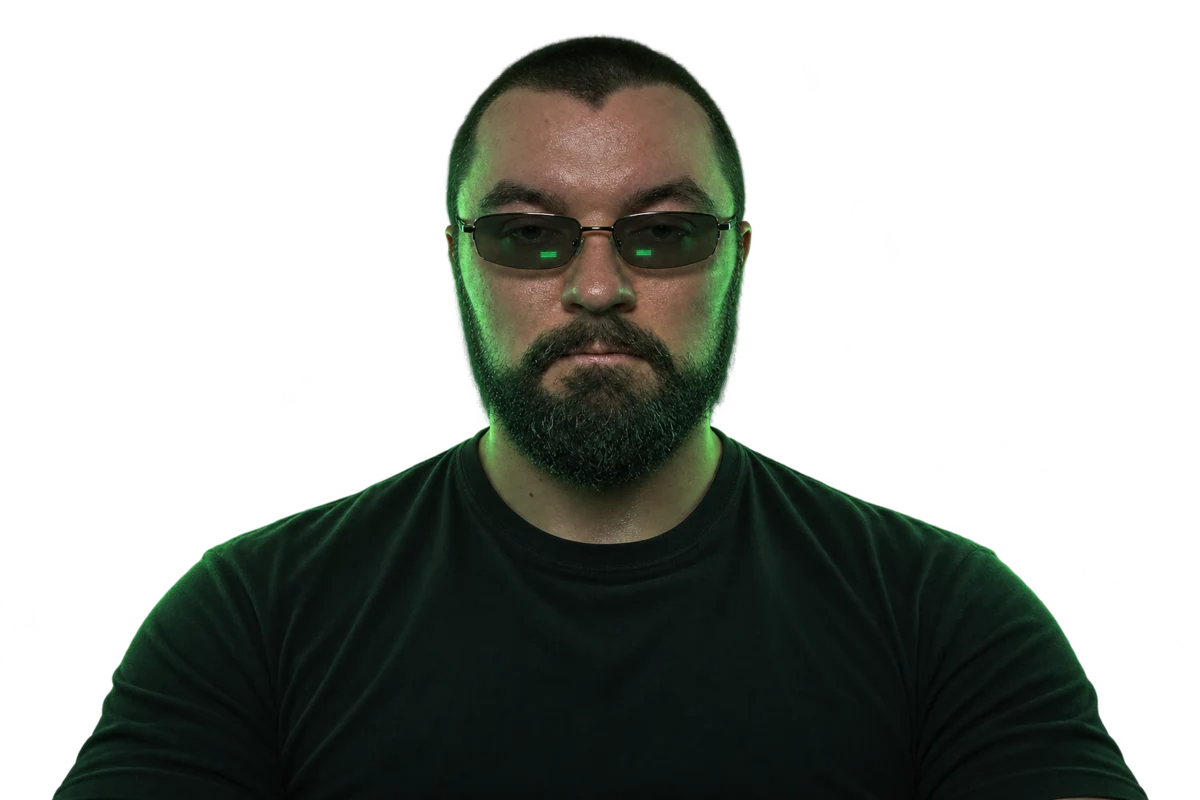
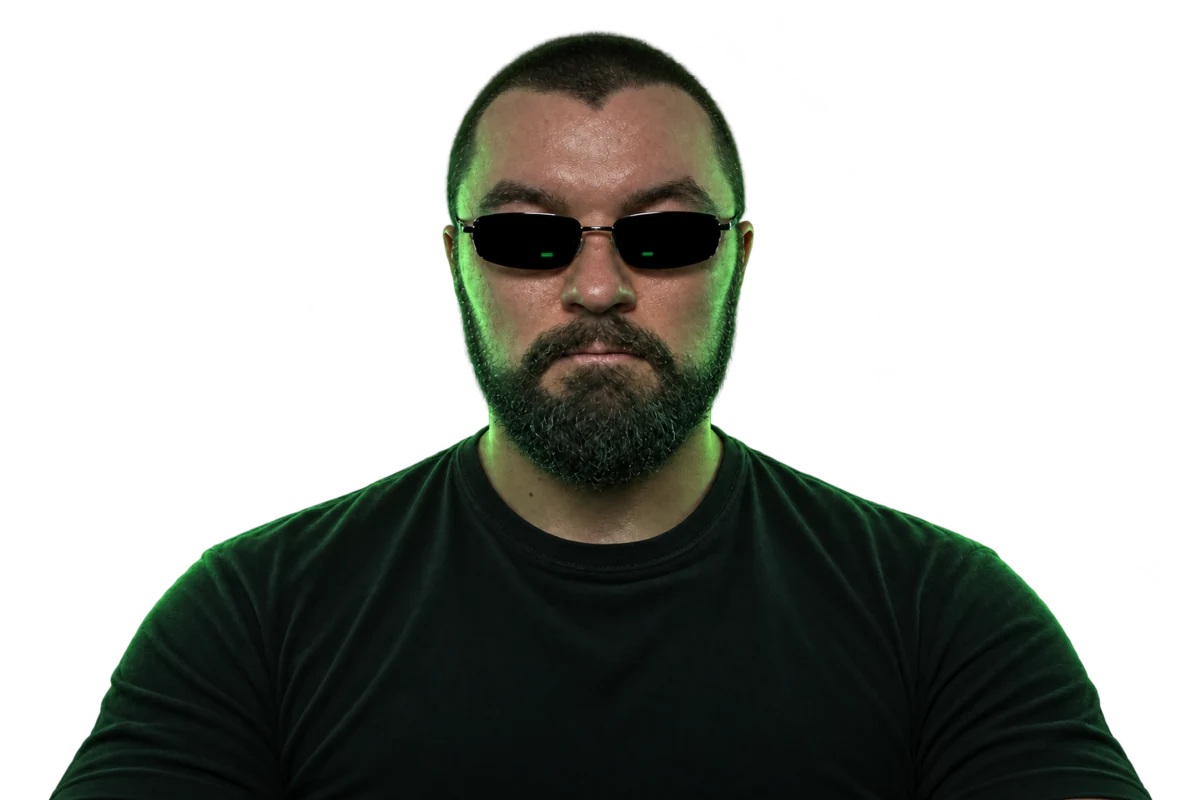
Fill the Matrix Rain workspace and enlarge the reflection reveal

diff --git a/matrix-rain/style.css b/matrix-rain/style.css
@@ -1,8 +1,29 @@
-.container {
-  width: min(calc(100% - 32px), 1560px);
+body {
+  --gutter: clamp(0.75rem, 1.35vw, 1.5rem);
+  display: flex;
+  flex-direction: column;
+  height: 100dvh;
 }
-.header-row,
+.site-header {
+  flex: none;
+}
+.header-row {
+  display: grid;
+  grid-template-columns: auto 1fr auto;
+  grid-template-areas: 'title tagline actions';
+  align-items: center;
+  gap: 0.9rem;
+  padding-inline: var(--gutter);
+}
+.header-row h1 {
+  grid-area: title;
+}
+.tagline {
+  grid-area: tagline;
+  margin: 0;
+}
 .preview-heading,
+.playback,
 .transport,
 .actions {
   display: flex;
@@ -10,26 +31,33 @@
   gap: 0.7rem;
 }
 .tool-header-actions {
-  align-items: center;
+  grid-area: actions;
 }
 .studio {
+  flex: 1;
+  min-height: 0;
   display: grid;
-  grid-template-columns: clamp(240px, 23vw, 310px) minmax(0, 1fr);
+  grid-template-columns: clamp(15rem, 22vw, 21rem) minmax(0, 1fr);
+  grid-template-rows: minmax(0, 1fr);
   grid-template-areas: 'controls preview';
-  align-items: start;
-  gap: 1rem;
-  margin-block: 1rem;
 }
 .controls {
   grid-area: controls;
+  overflow: auto;
+  background: var(--surface);
+  border-right: 1px solid var(--border);
 }
 .preview {
   grid-area: preview;
-  min-width: 0;
+  display: flex;
+  flex-direction: column;
+  gap: 0.75rem;
 }
 .controls,
 .preview {
-  padding: clamp(0.8rem, 1.5vw, 1.2rem);
+  min-width: 0;
+  min-height: 0;
+  padding: 1rem var(--gutter);
 }
 .controls fieldset {
   display: grid;
@@ -82,7 +110,6 @@
 }
 .preview-heading {
   justify-content: space-between;
-  margin-bottom: 0.75rem;
 }
 #clock {
   font:
@@ -91,19 +118,23 @@
   color: var(--muted);
 }
 .monitor {
-  background: #040b07;
-  border: 1px solid #344b3d;
-  border-radius: 7px;
-  padding: 4px;
+  flex: 1;
+  min-height: 0;
+  display: grid;
+  place-items: center;
+  container-type: size;
+  background: #080a09;
+  border-radius: var(--radius);
+  overflow: hidden;
 }
-canvas {
+.monitor canvas {
   display: block;
-  width: 100%;
+  width: min(100cqw, 177.77778cqh);
   height: auto;
-  border-radius: 3px;
 }
 .transport {
-  margin: 0.85rem 0;
+  flex: 1;
+  min-width: 0;
 }
 #time {
   flex: 1;
@@ -118,19 +149,51 @@ input[type='range'] {
 .actions {
   flex-wrap: wrap;
 }
-#status:not(:empty) {
-  display: block;
-  margin-top: 0.6rem;
+#status:empty {
+  display: none;
 }
 @media (max-width: 760px) {
-  .container {
-    width: calc(100% - 20px);
+  body {
+    height: auto;
+    min-height: 100dvh;
   }
   .studio {
     grid-template-columns: minmax(0, 1fr);
+    grid-template-rows: auto 1fr;
     grid-template-areas: 'preview' 'controls';
-    gap: 0.65rem;
-    margin-block: 0.65rem;
+  }
+  .header-row {
+    grid-template-columns: minmax(0, 1fr) auto;
+    grid-template-areas: 'title actions' 'tagline tagline';
+    gap: 0 0.35rem;
+    padding-block: 0.5rem;
+  }
+  .header-row h1 {
+    font-size: clamp(1.1rem, 5.4vw, 1.5rem);
+  }
+  .tool-header-actions,
+  .theme-switch,
+  .actions {
+    gap: 0.3rem;
+  }
+  .monitor {
+    flex: none;
+    container-type: normal;
+    aspect-ratio: 16 / 9;
+  }
+  .monitor canvas {
+    width: 100%;
+  }
+  .controls {
+    overflow: visible;
+    border-right: 0;
+    border-top: 1px solid var(--border);
+  }
+  .playback {
+    flex-wrap: wrap;
+  }
+  .transport {
+    flex-basis: 13rem;
   }
   .tagline {
     font-size: 0.88rem;

diff --git a/matrix-rain/index.html b/matrix-rain/index.html
@@ -12,19 +12,17 @@
   </head>
   <body>
     <header class="site-header">
-      <div class="container header-row tool-header-row">
-        <div>
-          <h1>Matrix Rain</h1>
-          <p class="tagline">Hide words in falling code and reveal a reflection on CRT glass.</p>
-        </div>
+      <div class="header-row tool-header-row">
+        <h1>Matrix Rain</h1>
+        <p class="tagline">Hide words in falling code and reveal a reflection on CRT glass.</p>
         <div class="tool-header-actions">
           <a href="../">vetr.dev</a
           ><button id="theme-toggle" type="button" data-light-switch aria-label="Dark mode"></button>
         </div>
       </div>
     </header>
-    <main class="container studio">
-      <section class="card preview" aria-labelledby="preview-heading">
+    <main class="studio">
+      <section class="preview" aria-labelledby="preview-heading">
         <div class="preview-heading">
           <h2 id="preview-heading">Preview</h2>
           <output id="clock" for="time">4.00 / 16 s</output>
@@ -32,18 +30,20 @@
         <div class="monitor">
           <canvas id="screen" width="960" height="540" aria-label="Matrix rain animation preview"></canvas>
         </div>
-        <div class="transport">
-          <button id="play" type="button" class="primary">Play</button>
-          <label for="time" class="visually-hidden">Time in seconds</label
-          ><input id="time" type="range" min="0" max="16" step="0.01" value="4" />
-        </div>
-        <div class="actions">
-          <button id="still" type="button">Save frame as PNG</button
-          ><button id="video" type="button">Record video</button>
+        <div class="playback">
+          <div class="transport">
+            <button id="play" type="button" class="primary">Play</button>
+            <label for="time" class="visually-hidden">Time in seconds</label>
+            <input id="time" type="range" min="0" max="16" step="0.01" value="4" />
+          </div>
+          <div class="actions">
+            <button id="still" type="button">Save frame as PNG</button>
+            <button id="video" type="button">Record video</button>
+          </div>
         </div>
         <output id="status" role="status"></output>
       </section>
-      <aside class="card controls" aria-labelledby="settings-heading">
+      <aside class="controls" aria-labelledby="settings-heading">
         <h2 id="settings-heading">Settings</h2>
         <fieldset id="settings">
           <legend class="visually-hidden">Sequence settings</legend>

diff --git a/matrix-rain/api.md b/matrix-rain/api.md
@@ -2,9 +2,9 @@
 
 Use the settings panel to choose **Opening with reflection** or **Rain only**. Enter one hidden name or phrase per line. Each reads downward in a falling column, and the seed repeats its placement. **Add original lab names** appends the names from the R animation. Upload a PNG, JPEG or WebP to use your own reflection, or use the included green-lit portrait adapted from Nik’s recent photograph.
 
-Play or scrub the 16-second preview. **Save frame as PNG** captures the current frame. **Record video** captures the full sequence at 960 × 540 using the browser’s video encoder. Keep the tab visible during recording. The file format depends on the available encoder.
+Play or scrub the 16-second preview. The 16:9 film fits beside the settings on desktop and above them on a phone. **Save frame as PNG** captures the current frame. **Record video** captures the full sequence at 960 × 540 using the browser’s video encoder. Keep the tab visible during recording. The file format depends on the available encoder.
 
-The opening draws on `montgomery_lab/Matrix_GreenRain.R` at `fa27daf`. The rain moves toward the title, which locks into place at the center. Once the title dissolves, a faint outline appears at the bottom edge of the glass. The camera moves in toward the face as the rain blurs. For an uploaded portrait, crop the image where the torso should meet the bottom of the screen. CRT slots and image details magnify together. The landing card shows the title lock with its own title, “The Extracellular Matrix.”
+The opening draws on `montgomery_lab/Matrix_GreenRain.R` at `fa27daf`. The rain moves toward the title, which locks into place at the center. Once the title dissolves, a faint outline appears against the bottom edge of the glass. The default portrait fills about three quarters of the frame height at this point. The camera moves in toward the face as the rain blurs. For an uploaded portrait, crop the image where the torso should meet the bottom of the screen. CRT slots and image details magnify together. The landing card shows the title lock with its own title, “The Extracellular Matrix.”
 
 ## Frame API
 
